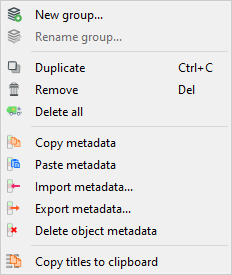
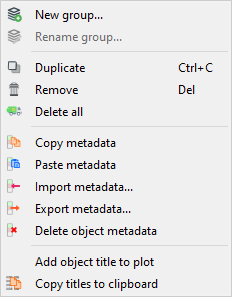
Updated documentation

diff --git a/cdl/plugins.py b/cdl/plugins.py
@@ -5,6 +5,21 @@
 
 """
 DataLab plugin system
+---------------------
+
+DataLab plugin system provides a way to extend the application with new
+functionalities.
+
+Plugins are Python modules that relies on two classes:
+
+    - :class:`PluginInfo`, which stores information about the plugin
+    - :class:`PluginBase`, which is the base class for all plugins
+
+.. autoclass:: PluginInfo
+    :members:
+
+.. autoclass:: PluginBase
+    :members:
 """
 
 from __future__ import annotations

diff --git a/cdl/remotecontrol.py b/cdl/remotecontrol.py
@@ -11,6 +11,9 @@ This module provides utilities to control DataLab from a Python script (e.g. wit
 Spyder) or from a Jupyter notebook.
 
 The :class:`RemoteClient` class provides the main interface to DataLab XML-RPC server.
+
+.. autoclass:: RemoteClient
+    :members:
 """
 
 from __future__ import annotations

diff --git a/cdl/core/model/signal.py b/cdl/core/model/signal.py
@@ -4,7 +4,9 @@
 # (see cdl/LICENSE for details)
 
 """
-DataLab Datasets
+Signal object and related classes
+---------------------------------
+
 """
 
 # pylint: disable=invalid-name  # Allows short reference names like x, y, ...

diff --git a/cdl/core/model/image.py b/cdl/core/model/image.py
@@ -4,7 +4,9 @@
 # (see cdl/LICENSE for details)
 
 """
-DataLab Datasets
+Image object and related classes
+--------------------------------
+
 """
 
 # pylint: disable=invalid-name  # Allows short reference names like x, y, ...

diff --git a/cdl/core/gui/processor/signal.py b/cdl/core/gui/processor/signal.py
@@ -4,7 +4,9 @@
 # (see cdl/LICENSE for details)
 
 """
-DataLab Signal Processor GUI module
+Signal Processor
+----------------
+
 """
 
 # pylint: disable=invalid-name  # Allows short reference names like x, y, ...

diff --git a/cdl/core/gui/processor/image.py b/cdl/core/gui/processor/image.py
@@ -4,7 +4,9 @@
 # (see cdl/LICENSE for details)
 
 """
-DataLab Image Processor GUI module
+Image Processor
+---------------
+
 """
 
 # pylint: disable=invalid-name  # Allows short reference names like x, y, ...

diff --git a/doc/features/image/menu/processing.rst b/doc/features/image/menu/processing.rst
@@ -87,6 +87,11 @@ Restoration
         Denoise image by subtracting its white top hat transform
         (using a disk footprint)
 
+    All denoising methods
+        Perform all denoising methods on image. Combined with the
+        "distribute on a grid" option, this allows to compare the
+        different denoising methods on the same image.
+
 Morphology
     White Top-Hat (disk)
         Perform white top hat transform of an image, using a disk footprint
@@ -111,6 +116,11 @@ Morphology
     Closing (disk)
         Perform morphological closing on an image, using a disk footprint
         (implementation based on `skimage.morphology.closing <https://scikit-image.org/docs/stable/api/skimage.morphology.html#skimage.morphology.closing>`_)
+
+    All morphological operations
+        Perform all morphological operations on an image, using a disk footprint.
+        Combined with the "distribute on a grid" option, this allows to compare
+        the different morphological operations on the same image.
 
 Edges
     Roberts filter
@@ -168,6 +178,11 @@ Edges
     Laplace filter
         Perform edge filtering on an image, using the Laplace algorithm
         (implementation based on `skimage.filters.laplace <https://scikit-image.org/docs/stable/api/skimage.filters.html#skimage.filters.laplace>`_)
+
+    All edges filters
+        Perform all edge filtering algorithms (see above) on an image.
+        Combined with the "distribute on a grid" option, this allows to compare
+        the different edge filters on the same image.
 
     Canny filter
         Perform edge filtering on an image, using the Canny algorithm

diff --git a/doc/features/general/plugins.rst b/doc/features/general/plugins.rst
@@ -1,0 +1,18 @@
+Plugins
+=======
+
+DataLab is a modular application. It is possible to add new features to DataLab
+by writing plugins. A plugin is a Python module that is loaded at startup by
+DataLab. A plugin may add new features to DataLab, or modify existing features.
+
+The plugin system currently supports the following features:
+
+- Processing features: add new processing tasks to the DataLab processing
+  system, including specific graphical user interfaces.
+- Input/output features: add new file formats to the DataLab file I/O system.
+- HDF5 features: add new HDF5 file formats to the DataLab HDF5 I/O system.
+
+Public API
+^^^^^^^^^^
+
+.. automodule:: cdl.plugins

diff --git a/doc/features/signal/menu/edit.rst b/doc/features/signal/menu/edit.rst
@@ -29,6 +29,9 @@ Delete object metadata
     Metadata contains additionnal information such as Region of Interest
     or results of computations
 
+Add object title to plot
+    Add currently selected signal title to the associated plot.
+
 Copy titles to clipboard
     Copy all signal titles to clipboard as a multiline text.
     This text may be used for reproducing a processing chain, for example.

diff --git a/doc/features/image/menu/edit.rst b/doc/features/image/menu/edit.rst
@@ -29,6 +29,9 @@ Delete object metadata
     Metadata contains additionnal information such as Region of Interest
     or results of computations
 
+Add object title to plot
+    Add currently selected image title to the associated plot.
+
 Copy titles to clipboard
     Copy all image titles to clipboard as a multiline text.
     This text may be used for reproducing a processing chain, for example.

diff --git a/doc/features/general/remotecontrol.rst b/doc/features/general/remotecontrol.rst
@@ -86,7 +86,6 @@ Public API: remote client
 ^^^^^^^^^^^^^^^^^^^^^^^^^
 
 .. automodule:: cdl.remotecontrol
-    :members: RemoteClient
 
 Public API: additional methods
 ^^^^^^^^^^^^^^^^^^^^^^^^^^^^^^

diff --git a/doc/features/general/index.rst b/doc/features/general/index.rst
@@ -13,5 +13,6 @@ General features
    h5browser
    remotecontrol
    model
+   plugins
    logviewer
    instviewer
